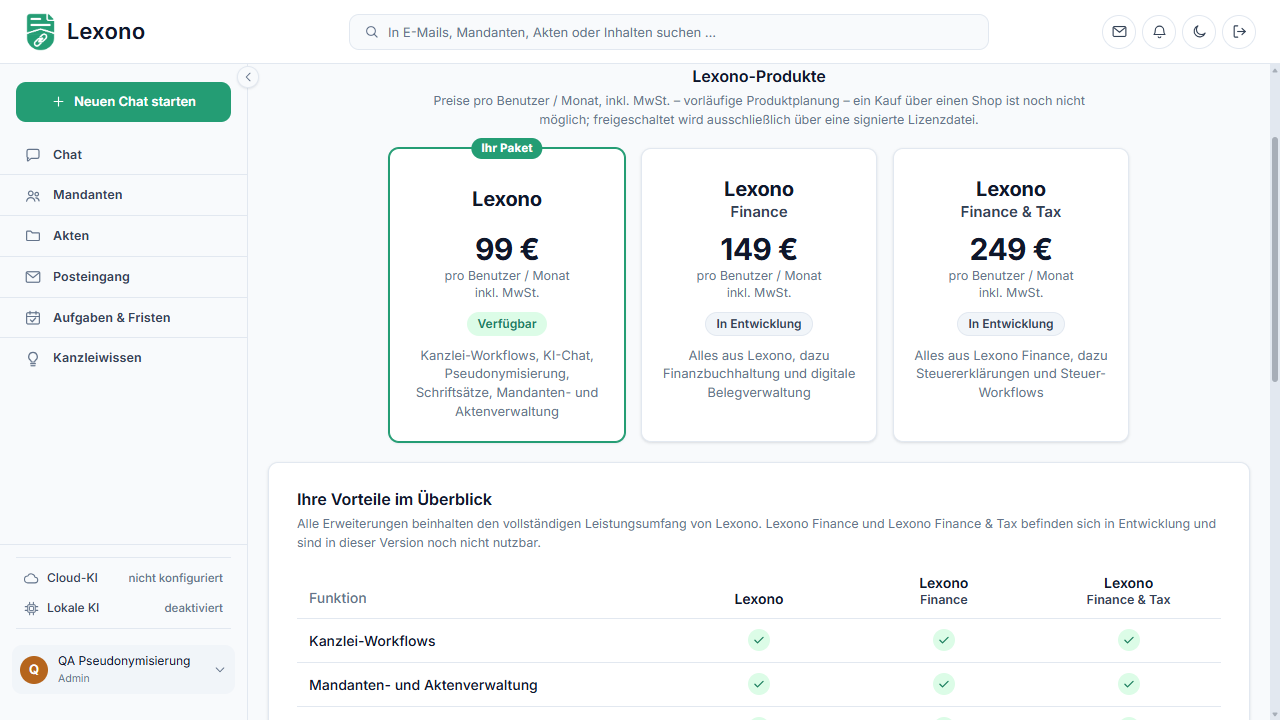
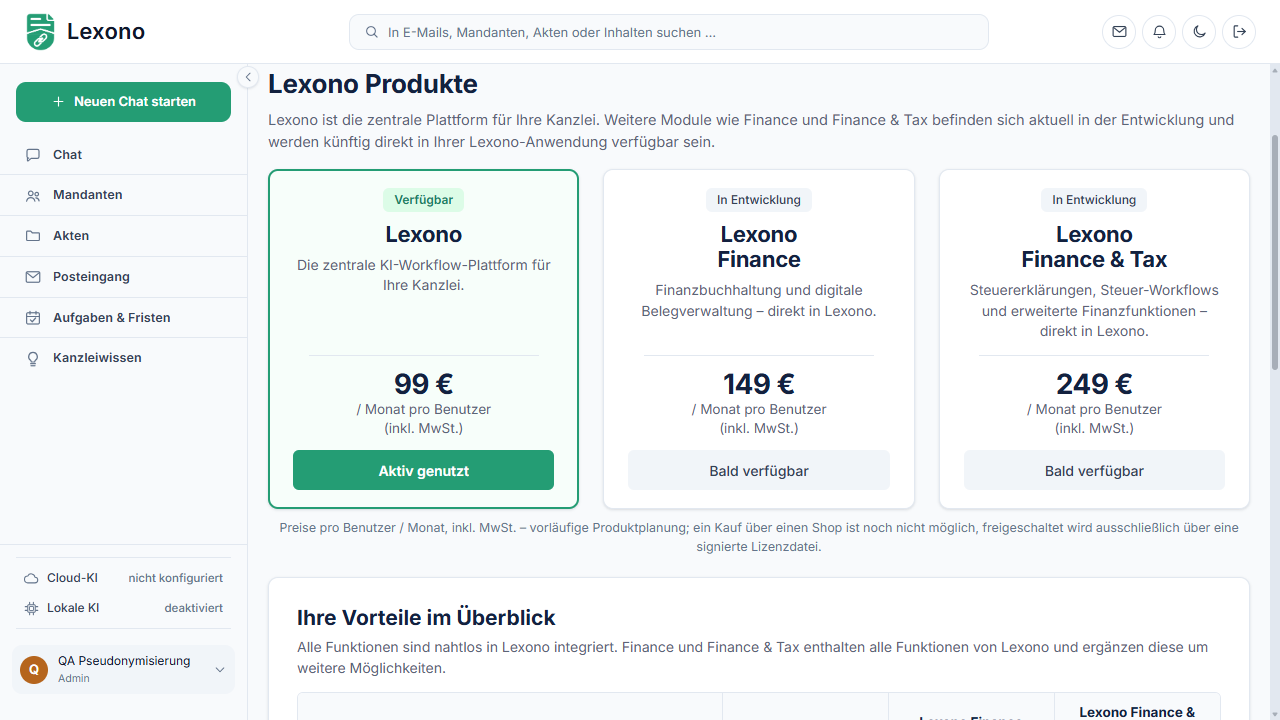
feat(settings): license tab aligned to the owner reference image - NOT PRIVACY APPROVED
- "Lexono Produkte" header + intro, three cards (status badge, two-line name, summary, divider, price per user
  and month incl. VAT, status bar "Aktiv genutzt" / "Bald verfügbar" as display only - no buy/unlock function)
- "Ihre Vorteile im Überblick": bordered table, column heads with name, "(in Entwicklung)" and price, four rows
  with sub-lines and filled green checks (plans.FEATURES with detail texts = target scope)
- kept by requirement: existing settings header and tabs, license status/import below; "Aktiv genutzt" follows
  only the real license state (license and build profile)
- QA: reference image + side-by-side comparison, 1672x941 (reference size) and 1280x720 light/dark, 1920x1080,
  960x600 - no page/container/table horizontal scroll, nothing clipped, no JS errors; fixed an 18 px panel
  overflow at 960 px (table min width) found during the check
- tests: license page tests updated; license/modules/profile/rights/settings: 173 passed

Claude-Session: https://claude.ai/code/session_01A5r6LBsi22cBs78Q4shFXb

diff --git a/app/web/static/css/app.css b/app/web/static/css/app.css
@@ -13685,50 +13685,68 @@ html.sidebar-collapsed .sidebar__new-badge { display: none; }
 .module-license-form__file { display: flex; align-items: center; gap: 8px; font-size: 13.5px; color: var(--ink-700); }
 .module-license-form__remove { color: var(--wax-red) !important; }
 
-/* Lizenz-Tab: Produktuebersicht und Funktionsvergleich (29.10.2026). Seriös und reduziert: Weiss, Navy (--ink-900),
-   dezentes Grau, Lexono-Gruen nur fuer "enthalten", den Status "Verfuegbar" und das aktuelle Paket. Schmale,
-   zentrierte Karten statt voller Breite; keine Produktgrafiken. */
+/* Lizenz-Tab: Produktuebersicht und Funktionsvergleich (29.10.2026, nach Referenzbild
+   qa-evidence/pseudonymisierung-lizenz-20261029/lizenz/00-referenzbild.png). Weiss, Navy, dezentes Grau,
+   Lexono-Gruen fuer "Verfuegbar", "Aktiv genutzt", das aktuelle Paket und "enthalten". Keine Produktgrafiken. */
+.license-products-section, .license-compare { --lic-navy: #13213f; --lic-muted: #5b6577; }
+:root[data-theme="dark"] .license-products-section, :root[data-theme="dark"] .license-compare { --lic-navy: var(--ink-900); --lic-muted: var(--ink-500); }
+@media (prefers-color-scheme: dark) {
+  :root:not([data-theme="light"]) .license-products-section, :root:not([data-theme="light"]) .license-compare { --lic-navy: var(--ink-900); --lic-muted: var(--ink-500); }
+}
 .license-products-section { margin-bottom: 20px; }
-.license-products-section__head { text-align: center; max-width: 680px; margin: 0 auto 16px; }
-.license-products-section__head .settings-section__title { margin-bottom: 4px; }
-.license-products { display: grid; grid-template-columns: repeat(3, minmax(0, 236px)); justify-content: center; gap: 16px; }
-.license-product { position: relative; display: flex; flex-direction: column; align-items: center; text-align: center;
-  gap: 10px; padding: 26px 18px 20px; background: var(--paper-000); border: 1px solid var(--paper-line);
-  border-radius: var(--radius-md); box-shadow: var(--shadow-sm); min-width: 0; }
-.license-product.is-current { border-color: var(--brand-green); box-shadow: 0 0 0 1px var(--brand-green), var(--shadow-sm); }
-.license-product__current { position: absolute; top: -11px; left: 50%; transform: translateX(-50%); padding: 2px 10px;
-  border-radius: var(--radius-pill); background: var(--brand-green); color: var(--on-brand); font-size: 11.5px;
-  font-weight: 700; letter-spacing: 0.02em; white-space: nowrap; }
-.license-product__name { display: flex; flex-direction: column; align-items: center; margin: 0; color: var(--ink-900);
-  line-height: 1.2; min-height: 48px; justify-content: center; }
-.license-product__brand { font-size: 20px; font-weight: 700; letter-spacing: -0.01em; }
-.license-product__edition { font-size: 15px; font-weight: 600; color: var(--ink-700); margin-top: 2px; }
-.license-product__price { display: flex; flex-direction: column; align-items: center; gap: 2px; margin: 0; }
-.license-product__price strong { font-size: 30px; font-weight: 700; color: var(--ink-900); letter-spacing: -0.02em; line-height: 1.1; }
-.license-product__price span { font-size: 12.5px; color: var(--ink-500); line-height: 1.35; }
-.license-status { display: inline-flex; padding: 2px 10px; border-radius: var(--radius-pill); font-size: 12px;
-  font-weight: 600; white-space: nowrap; border: 1px solid transparent; }
+.license-products-section__head { margin: 4px 0 16px; }
+.license-products-section__title { margin: 0 0 6px; font-size: 26px; font-weight: 700; letter-spacing: -0.01em; color: var(--lic-navy); }
+.license-products-section__intro { margin: 0; max-width: 980px; font-size: 14.5px; line-height: 1.5; color: var(--lic-muted); }
+.license-products-section__note { margin: 10px 0 0; font-size: 12.5px; color: var(--ink-500); text-align: center; }
+.license-products { display: grid; grid-template-columns: repeat(3, minmax(0, 400px)); justify-content: center; gap: 24px; }
+.license-product { display: flex; flex-direction: column; align-items: center; text-align: center; min-width: 0;
+  padding: 18px 24px 18px; background: var(--paper-000); border: 1px solid var(--paper-line);
+  border-radius: var(--radius-md); box-shadow: var(--shadow-sm); }
+.license-product.is-current { border: 2px solid var(--brand-green); padding: 17px 23px; background: color-mix(in srgb, var(--brand-green-tint) 22%, var(--paper-000)); }
+.license-status { display: inline-flex; padding: 3px 11px; border-radius: var(--radius-sm); font-size: 12px; font-weight: 600; white-space: nowrap; }
 .license-status--verfuegbar { background: var(--brand-green-tint); color: var(--brand-green-dark); }
-.license-status--in_entwicklung { background: var(--paper-200); color: var(--ink-700); border-color: var(--paper-line); }
-.license-product__summary { margin: 0; font-size: 13px; color: var(--ink-500); line-height: 1.45; overflow-wrap: anywhere; }
-.license-compare .settings-section__hint { margin-bottom: 12px; }
-.license-compare__scroll { overflow-x: auto; }
-.license-compare__table { width: 100%; border-collapse: collapse; font-size: 14px; min-width: 520px; }
-.license-compare__table th, .license-compare__table td { padding: 10px 12px; border-bottom: 1px solid var(--paper-line); }
-.license-compare__table thead th { color: var(--ink-900); font-weight: 600; vertical-align: bottom; }
-.license-compare__table tbody th { text-align: left; font-weight: 500; color: var(--ink-900); }
-.license-compare__feature-col { text-align: left; width: 40%; color: var(--ink-500) !important; font-weight: 500 !important; }
-.license-compare__product-col { text-align: center; width: 20%; }
-.license-compare__brand, .license-compare__edition { display: block; line-height: 1.25; }
-.license-compare__edition { font-size: 12.5px; color: var(--ink-700); font-weight: 600; }
-.license-compare__table td { text-align: center; }
+.license-status--in_entwicklung { background: var(--paper-200); color: var(--ink-700); font-weight: 500; }
+.license-product__name { display: flex; flex-direction: column; align-items: center; margin: 10px 0 0; color: var(--lic-navy); line-height: 1.15;
+  font-size: 22px; font-weight: 700; letter-spacing: -0.01em; }
+.license-product__edition { font-size: 22px; font-weight: 700; }
+.license-product__summary { margin: 8px 0 0; max-width: 300px; font-size: 14px; color: var(--lic-muted); line-height: 1.45; overflow-wrap: anywhere; flex: 1 0 auto; }
+.license-product__divider { width: 88%; height: 1px; margin: 14px 0 12px; background: var(--paper-line); }
+.license-product__price { display: flex; flex-direction: column; align-items: center; margin: 0 0 12px; }
+.license-product__price strong { font-size: 28px; font-weight: 700; color: var(--lic-navy); letter-spacing: -0.02em; line-height: 1.15; }
+.license-product__price span { font-size: 13.5px; color: var(--lic-muted); line-height: 1.4; }
+.license-product__state { display: flex; align-items: center; justify-content: center; width: 100%; min-height: 40px; padding: 8px 12px;
+  border-radius: var(--radius-sm); background: var(--paper-200); color: var(--ink-700); font-size: 14px; font-weight: 500; cursor: default; }
+.license-product__state--active { background: var(--brand-green); color: var(--on-brand); font-weight: 600; }
+.license-compare__title { margin: 0 0 4px; font-size: 21px; font-weight: 700; color: var(--lic-navy); }
+.license-compare__intro { margin: 0 0 14px; font-size: 14px; color: var(--lic-muted); line-height: 1.45; }
+/* Die Mindestbreite der Tabelle darf das Panel nicht verbreitern - nur die Tabelle selbst scrollt bei Bedarf */
+[data-tabpanel="lizenz"], .license-compare, .license-products-section { min-width: 0; max-width: 100%; }
+.license-compare__scroll { overflow-x: auto; max-width: 100%; border: 1px solid var(--paper-line); border-radius: var(--radius-sm); }
+.license-compare__table { width: 100%; border-collapse: collapse; font-size: 14px; min-width: 500px; }
+.license-compare__table th, .license-compare__table td { padding: 9px 14px; border-bottom: 1px solid var(--paper-line); }
+.license-compare__table th + th, .license-compare__table td, .license-compare__table thead th + th { border-left: 1px solid var(--paper-line); }
+.license-compare__table thead th { background: var(--paper-100); color: var(--lic-navy); vertical-align: middle; }
+.license-compare__feature-col { text-align: left; width: 46%; font-weight: 700; }
+.license-compare__product-col { text-align: center; width: 18%; }
+.license-compare__name { display: block; font-weight: 700; font-size: 13.5px; }
+.license-compare__meta { display: block; font-size: 12px; font-weight: 500; color: var(--lic-muted); line-height: 1.35; }
+.license-compare__table tbody th { text-align: left; font-weight: 400; }
+.license-compare__feature { display: block; font-weight: 600; color: var(--lic-navy); }
+.license-compare__detail { display: block; margin-top: 1px; font-size: 12.5px; color: var(--lic-muted); }
+.license-compare__table td { text-align: center; vertical-align: middle; }
 .license-compare__yes { display: inline-flex; width: 22px; height: 22px; align-items: center; justify-content: center;
-  border-radius: 50%; background: var(--brand-green-tint); color: var(--brand-green-dark); }
+  border-radius: 50%; background: var(--brand-green); color: var(--on-brand); }
 .license-compare__yes svg { width: 14px; height: 14px; }
-.license-compare__no { color: var(--ink-300); font-size: 16px; }
+.license-compare__no { color: var(--ink-500); font-size: 16px; }
 .license-compare__table tbody tr:last-child th, .license-compare__table tbody tr:last-child td { border-bottom: 0; }
-@media (max-width: 860px) {
-  .license-products { grid-template-columns: minmax(0, 320px); }
+@media (max-width: 1080px) {
+  .license-products { gap: 14px; }
+  .license-product { padding: 16px 14px; }
+  .license-product.is-current { padding: 15px 13px; }
+}
+@media (max-width: 1000px) {
+  /* schmales Fenster (Inhaltsbreite unter ~720 px): Karten untereinander statt gequetscht oder mit Querscroll */
+  .license-products { grid-template-columns: minmax(0, 400px); }
 }
 
 /* ==========================================================================
@@ -14758,4 +14776,8 @@ html.sidebar-collapsed .sidebar__new-badge { display: none; }
   .knowledge-page .knowledge-laws-layout .instructions-panel {
     margin-bottom: 0;
   }
+}
+@media (max-width: 1000px) {
+  .license-compare__table th, .license-compare__table td { padding: 8px 10px; }
+  .license-compare__feature-col { width: 40%; }
 }

diff --git a/app/web/templates/settings.html b/app/web/templates/settings.html
@@ -1759,32 +1759,44 @@
        folgt nur den tatsaechlich freigeschalteten Modulen (signierte Lizenz UND Build-Profil). #}
     <section class="license-products-section" aria-labelledby="license-products-title">
       <div class="license-products-section__head">
-        <h2 class="settings-section__title" id="license-products-title">Lexono-Produkte</h2>
-        <p class="settings-section__hint">Preise {{ license_price_basis }} – vorläufige Produktplanung – ein Kauf über einen Shop ist noch nicht möglich; freigeschaltet wird ausschließlich über eine signierte Lizenzdatei.</p>
+        <h2 class="license-products-section__title" id="license-products-title">Lexono Produkte</h2>
+        <p class="license-products-section__intro">Lexono ist die zentrale Plattform für Ihre Kanzlei. Weitere Module wie Finance und Finance &amp; Tax befinden sich aktuell in der Entwicklung und werden künftig direkt in Ihrer Lexono-Anwendung verfügbar sein.</p>
       </div>
       <div class="license-products" role="list">
         {% for p in license_products %}
-          <article class="license-product{% if p.key == license_current_product %} is-current{% endif %}" role="listitem"
+          {% set is_current = p.key == license_current_product %}
+          <article class="license-product{% if is_current %} is-current{% endif %}" role="listitem"
                    data-product="{{ p.key }}" data-product-status="{{ p.status }}" aria-label="{{ p.name }}">
-            {% if p.key == license_current_product %}<span class="license-product__current">Ihr Paket</span>{% endif %}
+            <span class="license-status license-status--{{ p.status }}">{{ p.status_label }}</span>
             <h3 class="license-product__name">
               <span class="license-product__brand">Lexono</span>
               {% if p.edition %}<span class="license-product__edition">{{ p.edition }}</span>{% endif %}
             </h3>
+            <p class="license-product__summary">{{ p.summary }}</p>
+            <div class="license-product__divider" aria-hidden="true"></div>
             <p class="license-product__price">
               <strong>{{ p.monthly_gross_per_user|int }} €</strong>
-              <span>pro Benutzer / Monat<br />inkl. MwSt.</span>
+              <span>/ Monat pro Benutzer</span>
+              <span>(inkl. MwSt.)</span>
             </p>
-            <span class="license-status license-status--{{ p.status }}">{{ p.status_label }}</span>
-            <p class="license-product__summary">{{ p.summary }}</p>
+            {# Statusleiste wie im Referenzbild - bewusst KEIN Button/Link: es gibt (noch) keinen Kauf und nichts wird
+               hierueber freigeschaltet. #}
+            {% if is_current %}
+              <span class="license-product__state license-product__state--active" data-product-state="active">Aktiv genutzt</span>
+            {% elif p.status == "in_entwicklung" %}
+              <span class="license-product__state" data-product-state="soon">Bald verfügbar</span>
+            {% else %}
+              <span class="license-product__state" data-product-state="available">Verfügbar</span>
+            {% endif %}
           </article>
         {% endfor %}
       </div>
+      <p class="license-products-section__note">Preise {{ license_price_basis }} – vorläufige Produktplanung; ein Kauf über einen Shop ist noch nicht möglich, freigeschaltet wird ausschließlich über eine signierte Lizenzdatei.</p>
     </section>
 
     <section class="settings-section license-compare" aria-labelledby="license-compare-title">
-      <h2 class="settings-section__title" id="license-compare-title">Ihre Vorteile im Überblick</h2>
-      <p class="settings-section__hint">Alle Erweiterungen beinhalten den vollständigen Leistungsumfang von Lexono. Lexono Finance und Lexono Finance &amp; Tax befinden sich in Entwicklung und sind in dieser Version noch nicht nutzbar.</p>
+      <h2 class="license-compare__title" id="license-compare-title">Ihre Vorteile im Überblick</h2>
+      <p class="license-compare__intro">Alle Funktionen sind nahtlos in Lexono integriert. Finance und Finance &amp; Tax enthalten alle Funktionen von Lexono und ergänzen diese um weitere Möglichkeiten.</p>
       <div class="license-compare__scroll">
         <table class="license-compare__table">
           <thead>
@@ -1792,7 +1804,9 @@
               <th scope="col" class="license-compare__feature-col">Funktion</th>
               {% for p in license_products %}
                 <th scope="col" class="license-compare__product-col">
-                  <span class="license-compare__brand">Lexono</span>{% if p.edition %}<span class="license-compare__edition">{{ p.edition }}</span>{% endif %}
+                  <span class="license-compare__name">{{ p.name }}</span>
+                  {% if p.status == "in_entwicklung" %}<span class="license-compare__meta">(in Entwicklung)</span>{% endif %}
+                  <span class="license-compare__meta">{{ p.monthly_gross_per_user|int }} € / Monat</span>
                 </th>
               {% endfor %}
             </tr>
@@ -1800,9 +1814,9 @@
           <tbody>
             {% for f in license_features %}
               <tr>
-                <th scope="row">{{ f.label }}</th>
+                <th scope="row"><span class="license-compare__feature">{{ f.label }}</span><span class="license-compare__detail">{{ f.detail }}</span></th>
                 {% for p in license_products %}
-                  <td>{% if f.module in p.modules %}<span class="license-compare__yes" role="img" aria-label="enthalten"><svg viewBox="0 0 24 24" fill="none" stroke="currentColor" stroke-width="2.2" stroke-linecap="round" stroke-linejoin="round" aria-hidden="true"><path d="m5 12.5 4.5 4.5L19 7.5"/></svg></span>{% else %}<span class="license-compare__no" role="img" aria-label="nicht enthalten">–</span>{% endif %}</td>
+                  <td>{% if f.module in p.modules %}<span class="license-compare__yes" role="img" aria-label="enthalten"><svg viewBox="0 0 24 24" fill="none" stroke="currentColor" stroke-width="2.6" stroke-linecap="round" stroke-linejoin="round" aria-hidden="true"><path d="m6.5 12.5 3.5 3.5 7.5-8"/></svg></span>{% else %}<span class="license-compare__no" role="img" aria-label="nicht enthalten">–</span>{% endif %}</td>
                 {% endfor %}
               </tr>
             {% endfor %}

diff --git a/app/modules/plans.py b/app/modules/plans.py
@@ -39,7 +39,7 @@ class Product:
     modules: frozenset[str]
     monthly_gross_per_user: Decimal
     status: str
-    summary: str
+    summary: str         # Kurzbeschreibung auf der Produktkarte (Referenzbild Lizenzseite 29.10.2026)
 
     @property
     def status_label(self) -> str:
@@ -48,12 +48,12 @@ class Product:
 
 PRODUCTS: tuple[Product, ...] = (
     Product("lexono", "Lexono", "", frozenset({MODULE_KANZLEI}), Decimal("99.00"), STATUS_AVAILABLE,
-            "Kanzlei-Workflows, KI-Chat, Pseudonymisierung, Schriftsätze, Mandanten- und Aktenverwaltung"),
+            "Die zentrale KI-Workflow-Plattform für Ihre Kanzlei."),
     Product("finance", "Lexono Finance", "Finance", frozenset({MODULE_KANZLEI, MODULE_FINANZEN}), Decimal("149.00"),
-            STATUS_IN_DEVELOPMENT, "Alles aus Lexono, dazu Finanzbuchhaltung und digitale Belegverwaltung"),
+            STATUS_IN_DEVELOPMENT, "Finanzbuchhaltung und digitale Belegverwaltung – direkt in Lexono."),
     Product("finance_tax", "Lexono Finance & Tax", "Finance & Tax",
             frozenset({MODULE_KANZLEI, MODULE_FINANZEN, MODULE_STEUERN}), Decimal("249.00"), STATUS_IN_DEVELOPMENT,
-            "Alles aus Lexono Finance, dazu Steuererklärungen und Steuer-Workflows"),
+            "Steuererklärungen, Steuer-Workflows und erweiterte Finanzfunktionen – direkt in Lexono."),
 )
 PRODUCTS_BY_KEY = {p.key: p for p in PRODUCTS}
 
@@ -61,19 +61,19 @@ PRODUCTS_BY_KEY = {p.key: p for p in PRODUCTS}
 @dataclass(frozen=True)
 class Feature:
     label: str
+    detail: str  # Unterzeile (Zielumfang; Produkte "In Entwicklung" sind in der Tabelle als solche gekennzeichnet)
     module: str  # das Modul, das die Funktion traegt
 
 
-#: Funktionsvergleich "Ihre Vorteile im Überblick" - enthalten, wenn das Modul zur Produktstufe gehoert
+#: Funktionsvergleich "Ihre Vorteile im Überblick" (Referenzbild 29.10.2026) - enthalten, wenn das Modul zur Stufe
+#: gehoert. Beschreibt den ZIELUMFANG der Stufe; was heute nutzbar ist, bestimmen Status und Freischaltung.
 FEATURES: tuple[Feature, ...] = (
-    Feature("Kanzlei-Workflows", MODULE_KANZLEI),
-    Feature("Mandanten- und Aktenverwaltung", MODULE_KANZLEI),
-    Feature("KI-Chat und Dokumentenanalyse", MODULE_KANZLEI),
-    Feature("Lokale Pseudonymisierung", MODULE_KANZLEI),
-    Feature("Schriftsätze", MODULE_KANZLEI),
-    Feature("Finanzbuchhaltung", MODULE_FINANZEN),
-    Feature("Digitale Belegverwaltung", MODULE_FINANZEN),
-    Feature("Steuererklärungen und Steuer-Workflows", MODULE_STEUERN),
+    Feature("KI-Chat und Kanzlei-Workflows", "Dokumentenanalyse, Pseudonymisierung, Schriftsätze u. v. m.",
+            MODULE_KANZLEI),
+    Feature("Mandanten- und Aktenverwaltung", "E-Mail-Integration, Aufgaben & Fristen, Kanzleiwissen", MODULE_KANZLEI),
+    Feature("Digitale Belegverwaltung", "Buchungen, Konten, Bankimport, DATEV-Export u. v. m.", MODULE_FINANZEN),
+    Feature("Steuererklärungen & Steuer-Workflows",
+            "Steuererklärungen, ELSTER-/ERiC-Übermittlung, Plausibilitätsprüfungen u. v. m.", MODULE_STEUERN),
 )
 
 BILLING_TERMS = {"monthly": 1}  # Abrechnungszeitraum -> Monate; weitere (z. B. "yearly": 12) spaeter

diff --git a/tests/test_license_page.py b/tests/test_license_page.py
@@ -23,18 +23,22 @@ def test_license_tab_shows_three_products_with_prices_and_status(client, db_sess
     assert products == [("lexono", "verfuegbar"), ("finance", "in_entwicklung"), ("finance_tax", "in_entwicklung")]
     for price in ("99 €", "149 €", "249 €"):
         assert price in tab
-    assert tab.count("inkl. MwSt.") >= 3 and "pro Benutzer / Monat" in tab
+    assert tab.count("inkl. MwSt.") >= 3
     assert tab.count("In Entwicklung") == 2 and "Verfügbar" in tab
     assert "Finance &amp; Tax" in tab and "Ihre Vorteile im Überblick" in tab
-    # Funktionsvergleich: Kanzlei-Funktionen in allen drei, Belege ab Finance, Steuern nur in Finance & Tax
-    row = lambda label: tab.split(f"<th scope=\"row\">{label}</th>", 1)[1].split("</tr>", 1)[0]  # noqa: E731
-    assert row("Kanzlei-Workflows").count('aria-label="enthalten"') == 3
+    assert "Lexono Produkte" in tab and "(inkl. MwSt.)" in tab and "/ Monat pro Benutzer" in tab
+    # Funktionsvergleich (Referenzbild): Kanzlei-Funktionen in allen drei, Belege ab Finance, Steuern nur Finance & Tax
+    def row(label: str) -> str:
+        return tab.split(f'<span class="license-compare__feature">{label}</span>', 1)[1].split("</tr>", 1)[0]
+    assert row("KI-Chat und Kanzlei-Workflows").count('aria-label="enthalten"') == 3
     assert row("Mandanten- und Aktenverwaltung").count('aria-label="enthalten"') == 3
     assert row("Digitale Belegverwaltung").count('aria-label="enthalten"') == 2
-    assert row("Steuererklärungen und Steuer-Workflows").count('aria-label="enthalten"') == 1
-    # keine erfundene Kauf-/Freischaltfunktion auf den Karten, keine Legende "Enthalten/Nicht enthalten/In Entwicklung"
+    assert row("Steuererklärungen &amp; Steuer-Workflows").count('aria-label="enthalten"') == 1
+    assert tab.count("(in Entwicklung)") == 2  # Spaltenkoepfe kennzeichnen den Zielumfang als in Entwicklung
+    # Statusleisten statt Kauf-/Freischaltfunktion: keine Buttons, Links oder Formulare auf den Karten, keine Legende
     cards = tab.split('class="license-products"', 1)[1].split("</section>", 1)[0]
     assert "<button" not in cards and "<a " not in cards and "<form" not in cards
+    assert cards.count('data-product-state="soon"') == 2 and "Bald verfügbar" in cards
     assert "Legende" not in tab
 
 
@@ -42,7 +46,7 @@ def test_current_package_follows_only_the_real_license_state(client, db_session,
     login_as_admin(db_session, client)
     tab = _license_tab(client)
     assert re.search(r'license-product is-current"[^>]*data-product="lexono"', tab)
-    assert tab.count("Ihr Paket") == 1
+    assert tab.count('data-product-state="active"') == 1 and "Aktiv genutzt" in tab
     LicenseFactory(monkeypatch).activate(db_session, ("finanzen", "steuern"))
     tab = _license_tab(client)
     assert re.search(r'license-product is-current"[^>]*data-product="finance_tax"', tab)  # Vollprofil + Lizenz

diff --git a/benchmarks/legal_answers_v1/qa-evidence/pseudonymisierung-lizenz-20261029/README.md b/benchmarks/legal_answers_v1/qa-evidence/pseudonymisierung-lizenz-20261029/README.md
@@ -111,32 +111,55 @@ liegengebliebenen headless-Edge-Instanz aus einer früheren eigenen QA-Sitzung (
 nicht an einer frisch gestarteten. Als Chromium-Browserprüfung bleiben sie gültig. Die Instanz wurde gezielt beendet;
 die WebView2-Läufe nutzen Port 9374 mit Engine-Prüfung.
 
-## 4. Lizenzseite (Einstellungen → Tab „Lizenz“)
+## 4. Lizenzseite (Einstellungen → Tab „Lizenz“) – nach Referenzbild
 
-**Kein Referenzbild gefunden:** Ein Lizenz-Referenzbild lag weder im Repository noch unter Downloads, Desktop oder
-Bilder. Umgesetzt ist deshalb die schriftliche Vorgabe; ein Abgleich mit dem Bild steht aus.
+Der Owner hat das Referenzbild am 29.10.2026 nachgereicht (`lizenz/00-referenzbild.png`). Die zuvor nach Textvorgabe
+gebaute Seite ist danach angeglichen. Gegenüberstellung: `lizenz/01-vergleich-referenz-umsetzung.png`.
 
-- **Rahmen:** Bestehende Kopfzeile, Original-Logo, Navigation und Einstellungs-Tabs bleiben, „Lizenz“ ist aktiv. Es
-  gibt keinen neuen Menüpunkt.
-- **Produktkarten:** drei kompakte Karten (je max. 236 px), zentriert, ohne Grafiken. „Lexono“ steht über dem Zusatz.
-  - Lexono: 99 €, **Verfügbar**, mit „Ihr Paket“
-  - Lexono Finance: 149 €, **In Entwicklung**
-  - Lexono Finance & Tax: 249 €, **In Entwicklung**
-  - Alle Preise gelten pro Benutzer und Monat, inkl. MwSt.
-- **Vergleich „Ihre Vorteile im Überblick“:**
-  - Kanzlei-Funktionen in allen drei Produkten;
-  - Finanzbuchhaltung und Belegverwaltung ab Finance;
-  - Steuern nur in Finance & Tax;
-  - keine Legende.
-- **Keine Wirkung auf die Freischaltung:** Die Karten haben keinen Kauf- oder Freischalt-Button. „Ihr Paket“ folgt nur
-  den tatsächlich freigeschalteten Modulen (Lizenz ∩ Build-Profil). Lizenzstatus und Import bleiben unverändert
-  darunter.
-- **Preismodell:** `app/modules/plans.py` mit Produktstufen ersetzt das Addierungsmodell vom 28.10.;
-  MODULARCHITEKTUR §9 ist aktualisiert.
-- **Visuelle Prüfung** (`lizenz/`, Pilotprofil): 1920×1080, 1280×720 und 960×600 hell, 1280×720 dunkel. Ergebnis:
-  kein Seiten- oder Tabellen-Querscroll, nichts abgeschnitten, keine JS-Fehler (`kanzlei-pilot-messwerte.json`).
-- **Tests:** `tests/test_license_page.py` (2) prüft Produkte, Preise, Status, Vergleich, fehlende Kauf-Buttons und
-  „Ihr Paket“ gemäß Lizenz.
+**Umgesetzt wie in der Referenz:**
+
+- **Kopf:** „Lexono Produkte“ (Navy, linksbündig) mit dem Einleitungstext aus dem Bild.
+- **Drei Karten** (je max. 400 px, zentriert, keine Grafiken), von oben nach unten:
+  - Statusbadge (Lexono „Verfügbar“ grün, Finance und Finance & Tax „In Entwicklung“ grau);
+  - zweizeiliger Name („Lexono“ über dem Zusatz) und Kurzbeschreibung;
+  - Trennlinie, Preis 99 / 149 / 249 € mit „/ Monat pro Benutzer“ und „(inkl. MwSt.)“;
+  - Statusleiste „Aktiv genutzt“ (grün, aktuelles Paket) bzw. „Bald verfügbar“ (grau).
+  - Die aktuelle Karte hat einen grünen Rahmen.
+- **„Ihre Vorteile im Überblick“:** Einleitungstext aus dem Bild und eine umrandete Tabelle.
+  - Spaltenköpfe mit Name, „(in Entwicklung)“ und Preis.
+  - Vier Funktionszeilen mit Unterzeilen, gefüllte grüne Haken, „–“ für nicht enthalten.
+  - Zeilen: KI-Chat und Kanzlei-Workflows; Mandanten- und Aktenverwaltung; Digitale Belegverwaltung (ab Finance);
+    Steuererklärungen & Steuer-Workflows (nur Finance & Tax).
+
+**Bewusste Abweichungen bzw. Ergänzungen:**
+
+- **Einstellungs-Kopf:** Zentrierter Kopf „Einstellungen“ und die Tabs bleiben wie bisher (Vorgabe: bestehende Kopfzeile
+  und Tabs beibehalten). Die Referenz zeigt ihn linksbündig mit großem Zahnrad.
+- **Statusleisten:** „Aktiv genutzt“ und „Bald verfügbar“ sind reine Statusanzeigen ohne Klickfunktion. Es gibt
+  keinen Shop, und nichts wird freigeschaltet (keine Fake-Funktion).
+- **Aktuelles Paket:** „Aktiv genutzt“ folgt nur den tatsächlich freigeschalteten Modulen (Lizenz ∩ Build-Profil).
+- **Preiszeile:** Unter den Karten steht eine kleine Zeile, dass die Preise vorläufige Planung sind und es noch keinen
+  Kauf über einen Shop gibt.
+- **Lizenzprüfung:** Lizenzstatus und Lizenzimport bleiben unverändert unter dem Vergleich.
+- **Unterzeilen = Zielumfang:** Die Unterzeilen nennen den Zielumfang der Stufen, z. B. „Bankimport, DATEV-Export“ und
+  „ELSTER-/ERiC-Übermittlung“. Diese Funktionen sind heute nicht implementiert. Die betroffenen Spalten sind als
+  „(in Entwicklung)“ gekennzeichnet.
+
+**Visuelle Prüfung** (`lizenz/`, Pilotprofil, headless Edge):
+
+- **Größen:** 1672×941 (Referenzgröße) und 1280×720 je hell und dunkel, dazu 1920×1080 und 960×600 hell.
+- **Ergebnis:** In allen Größen kein Querscroll (weder Seite noch Container noch Tabelle), nichts abgeschnitten, keine
+  JS-Fehler (`kanzlei-pilot-messwerte.json`).
+- **Beim Abgleich gefunden und behoben:** Bei 960 px verbreiterte die Mindestbreite der Vergleichstabelle den Tab um
+  18 px.
+  - Das Panel ist jetzt begrenzt (`min-width: 0`), die Tabellen-Mindestbreite ist kleiner.
+  - Unter 1000 px stehen die Karten untereinander.
+
+**Tests:** `tests/test_license_page.py` (2) prüft:
+
+- Produkte, Preise, Status, die vier Vergleichszeilen und „(in Entwicklung)“;
+- keine Buttons, Links oder Formulare auf den Karten;
+- „Aktiv genutzt“ nur gemäß Lizenz.
 
 ## 5. Tests
 
@@ -165,7 +188,7 @@ Bilder. Umgesetzt ist deshalb die schriftliche Vorgabe; ein Abgleich mit dem Bil
 
 1. **Kein Build, keine Installation:** Geprüft ist der Quellstand in headless Edge und im echten WebView2-Fenster. Die
    gebaute und installierte EXE ist nicht geprüft; die Installation braucht deine Freigabe.
-2. **Kein Referenzbild:** Die Lizenzseite ist nicht mit einem Referenzbild abgeglichen (Bild nicht auffindbar).
+2. **Referenzbild:** nachgereicht und umgesetzt (Abschnitt 4); die Abweichungen sind dort begründet.
 3. **Timeout-Folge, geklärt:**
    - Ein Verbindungsabbruch beendet auch die Server-Verarbeitung; der Server gibt die Sperre frei, es entsteht kein
      Ergebnis.
